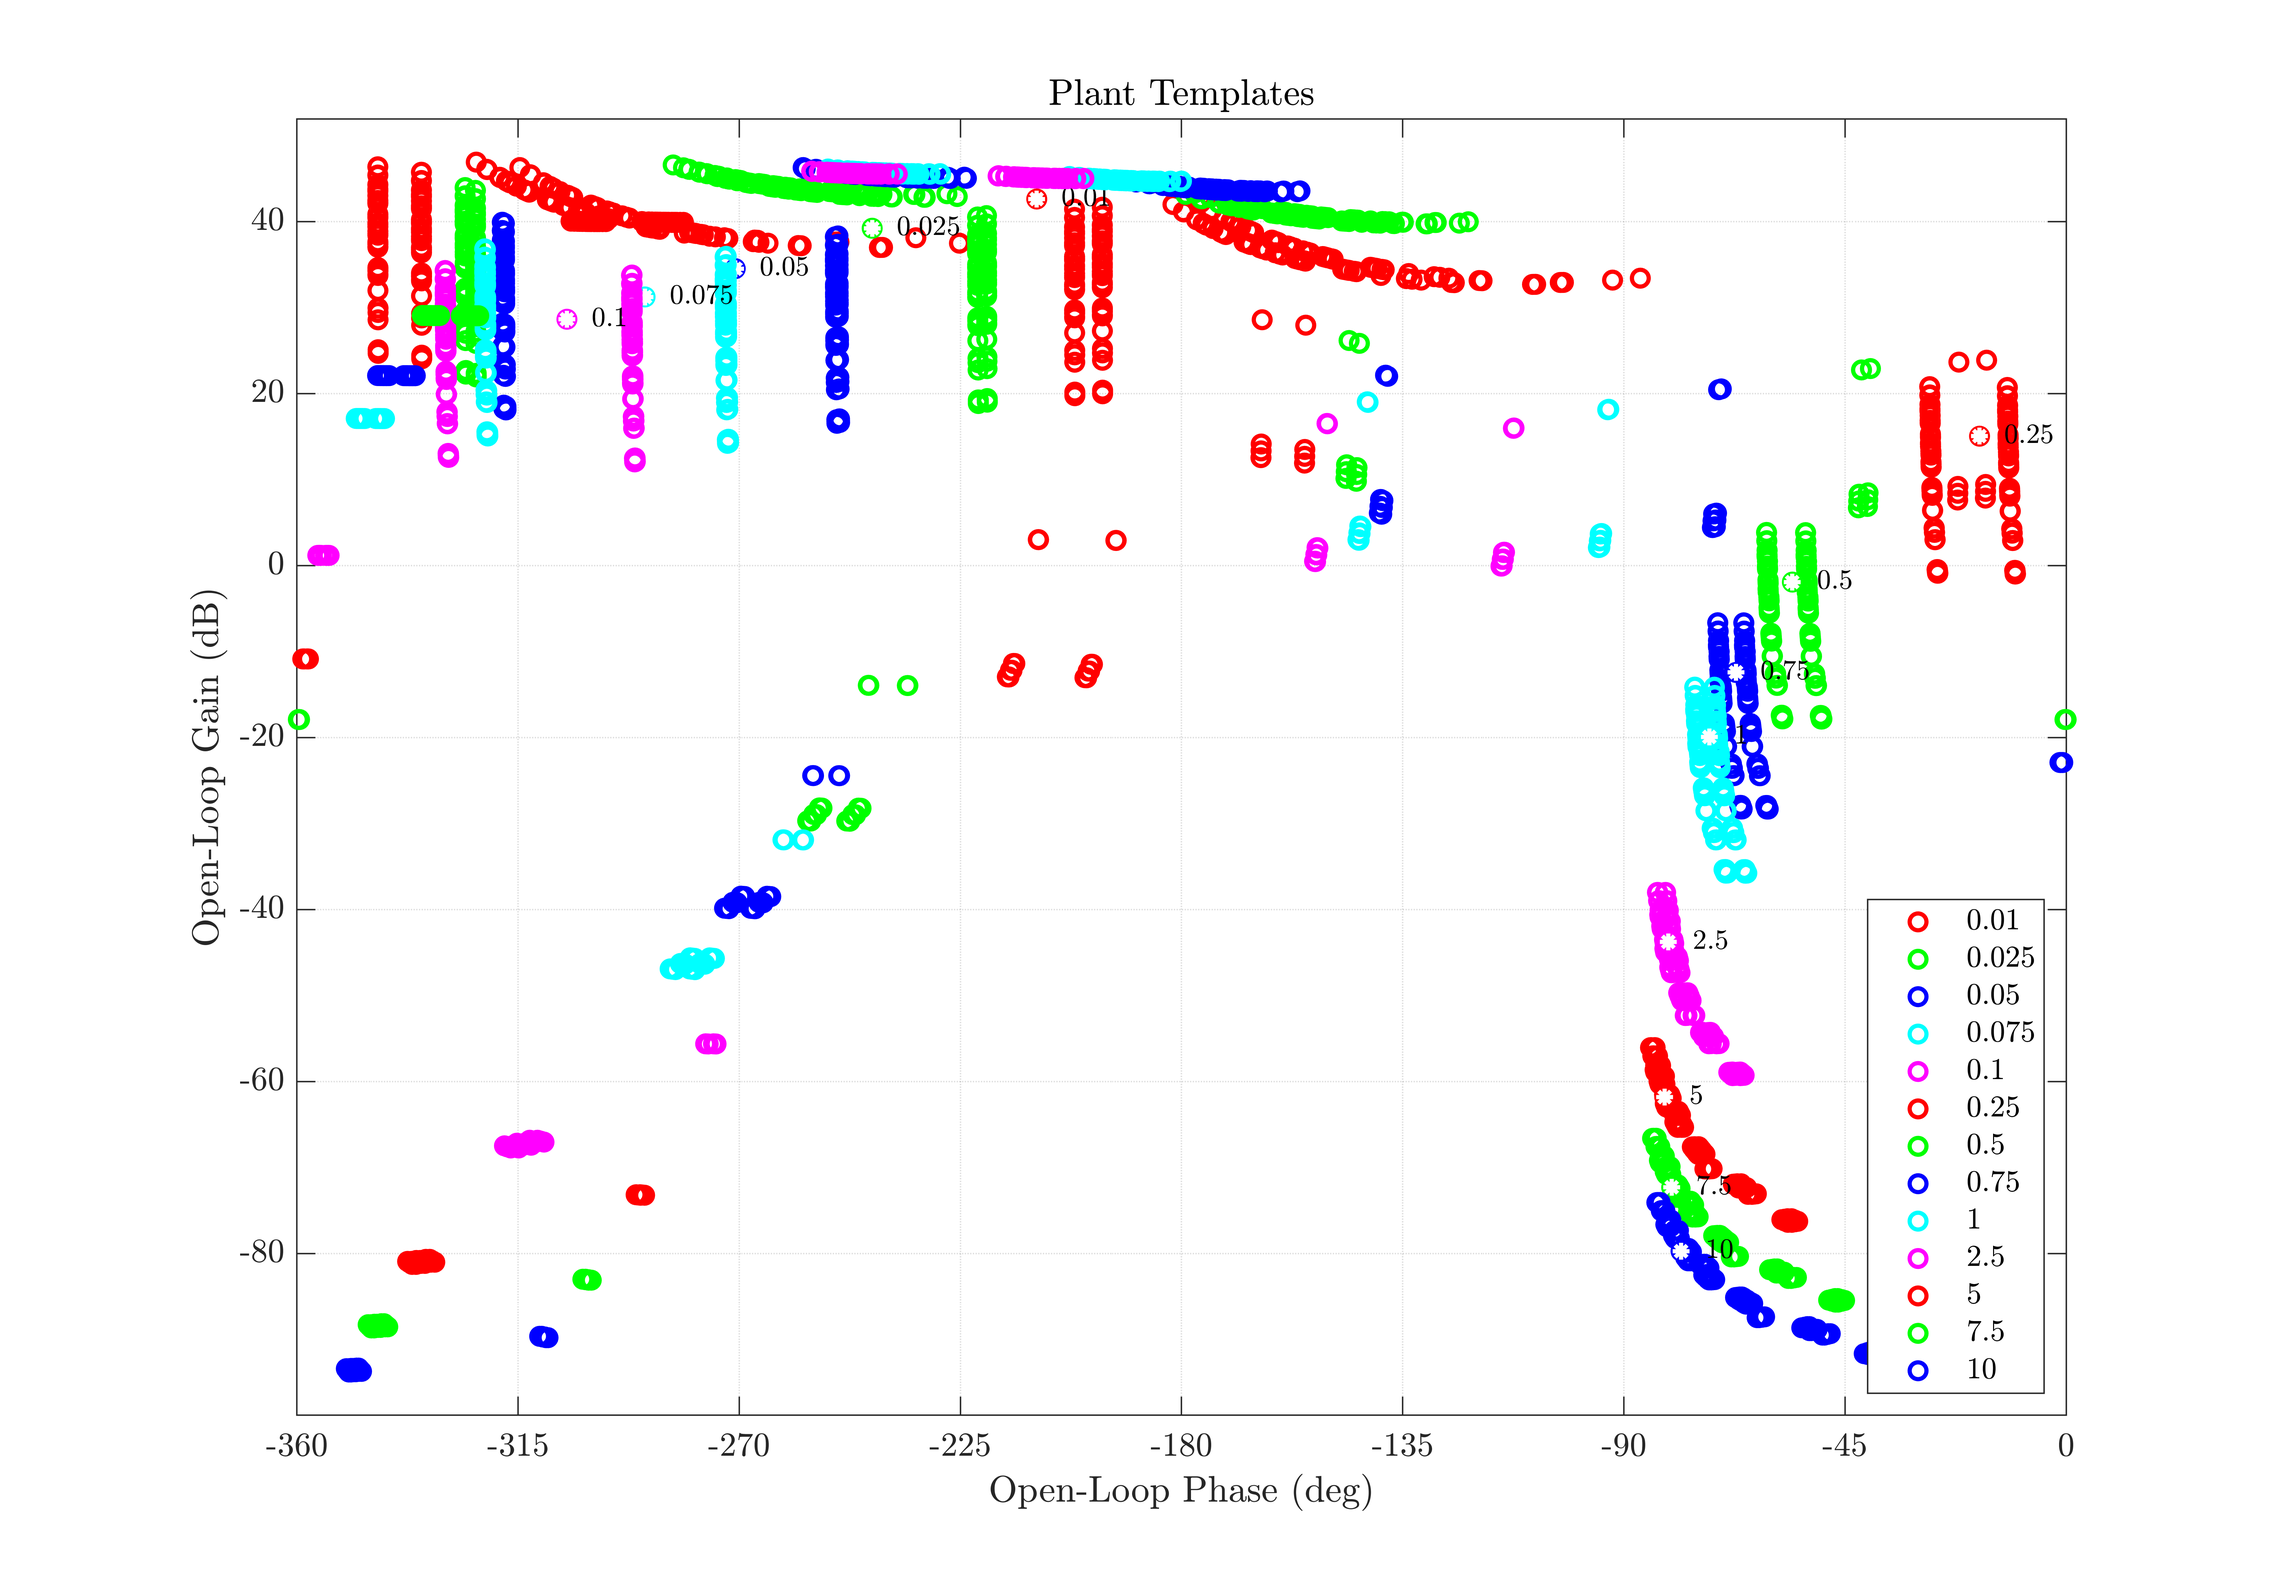
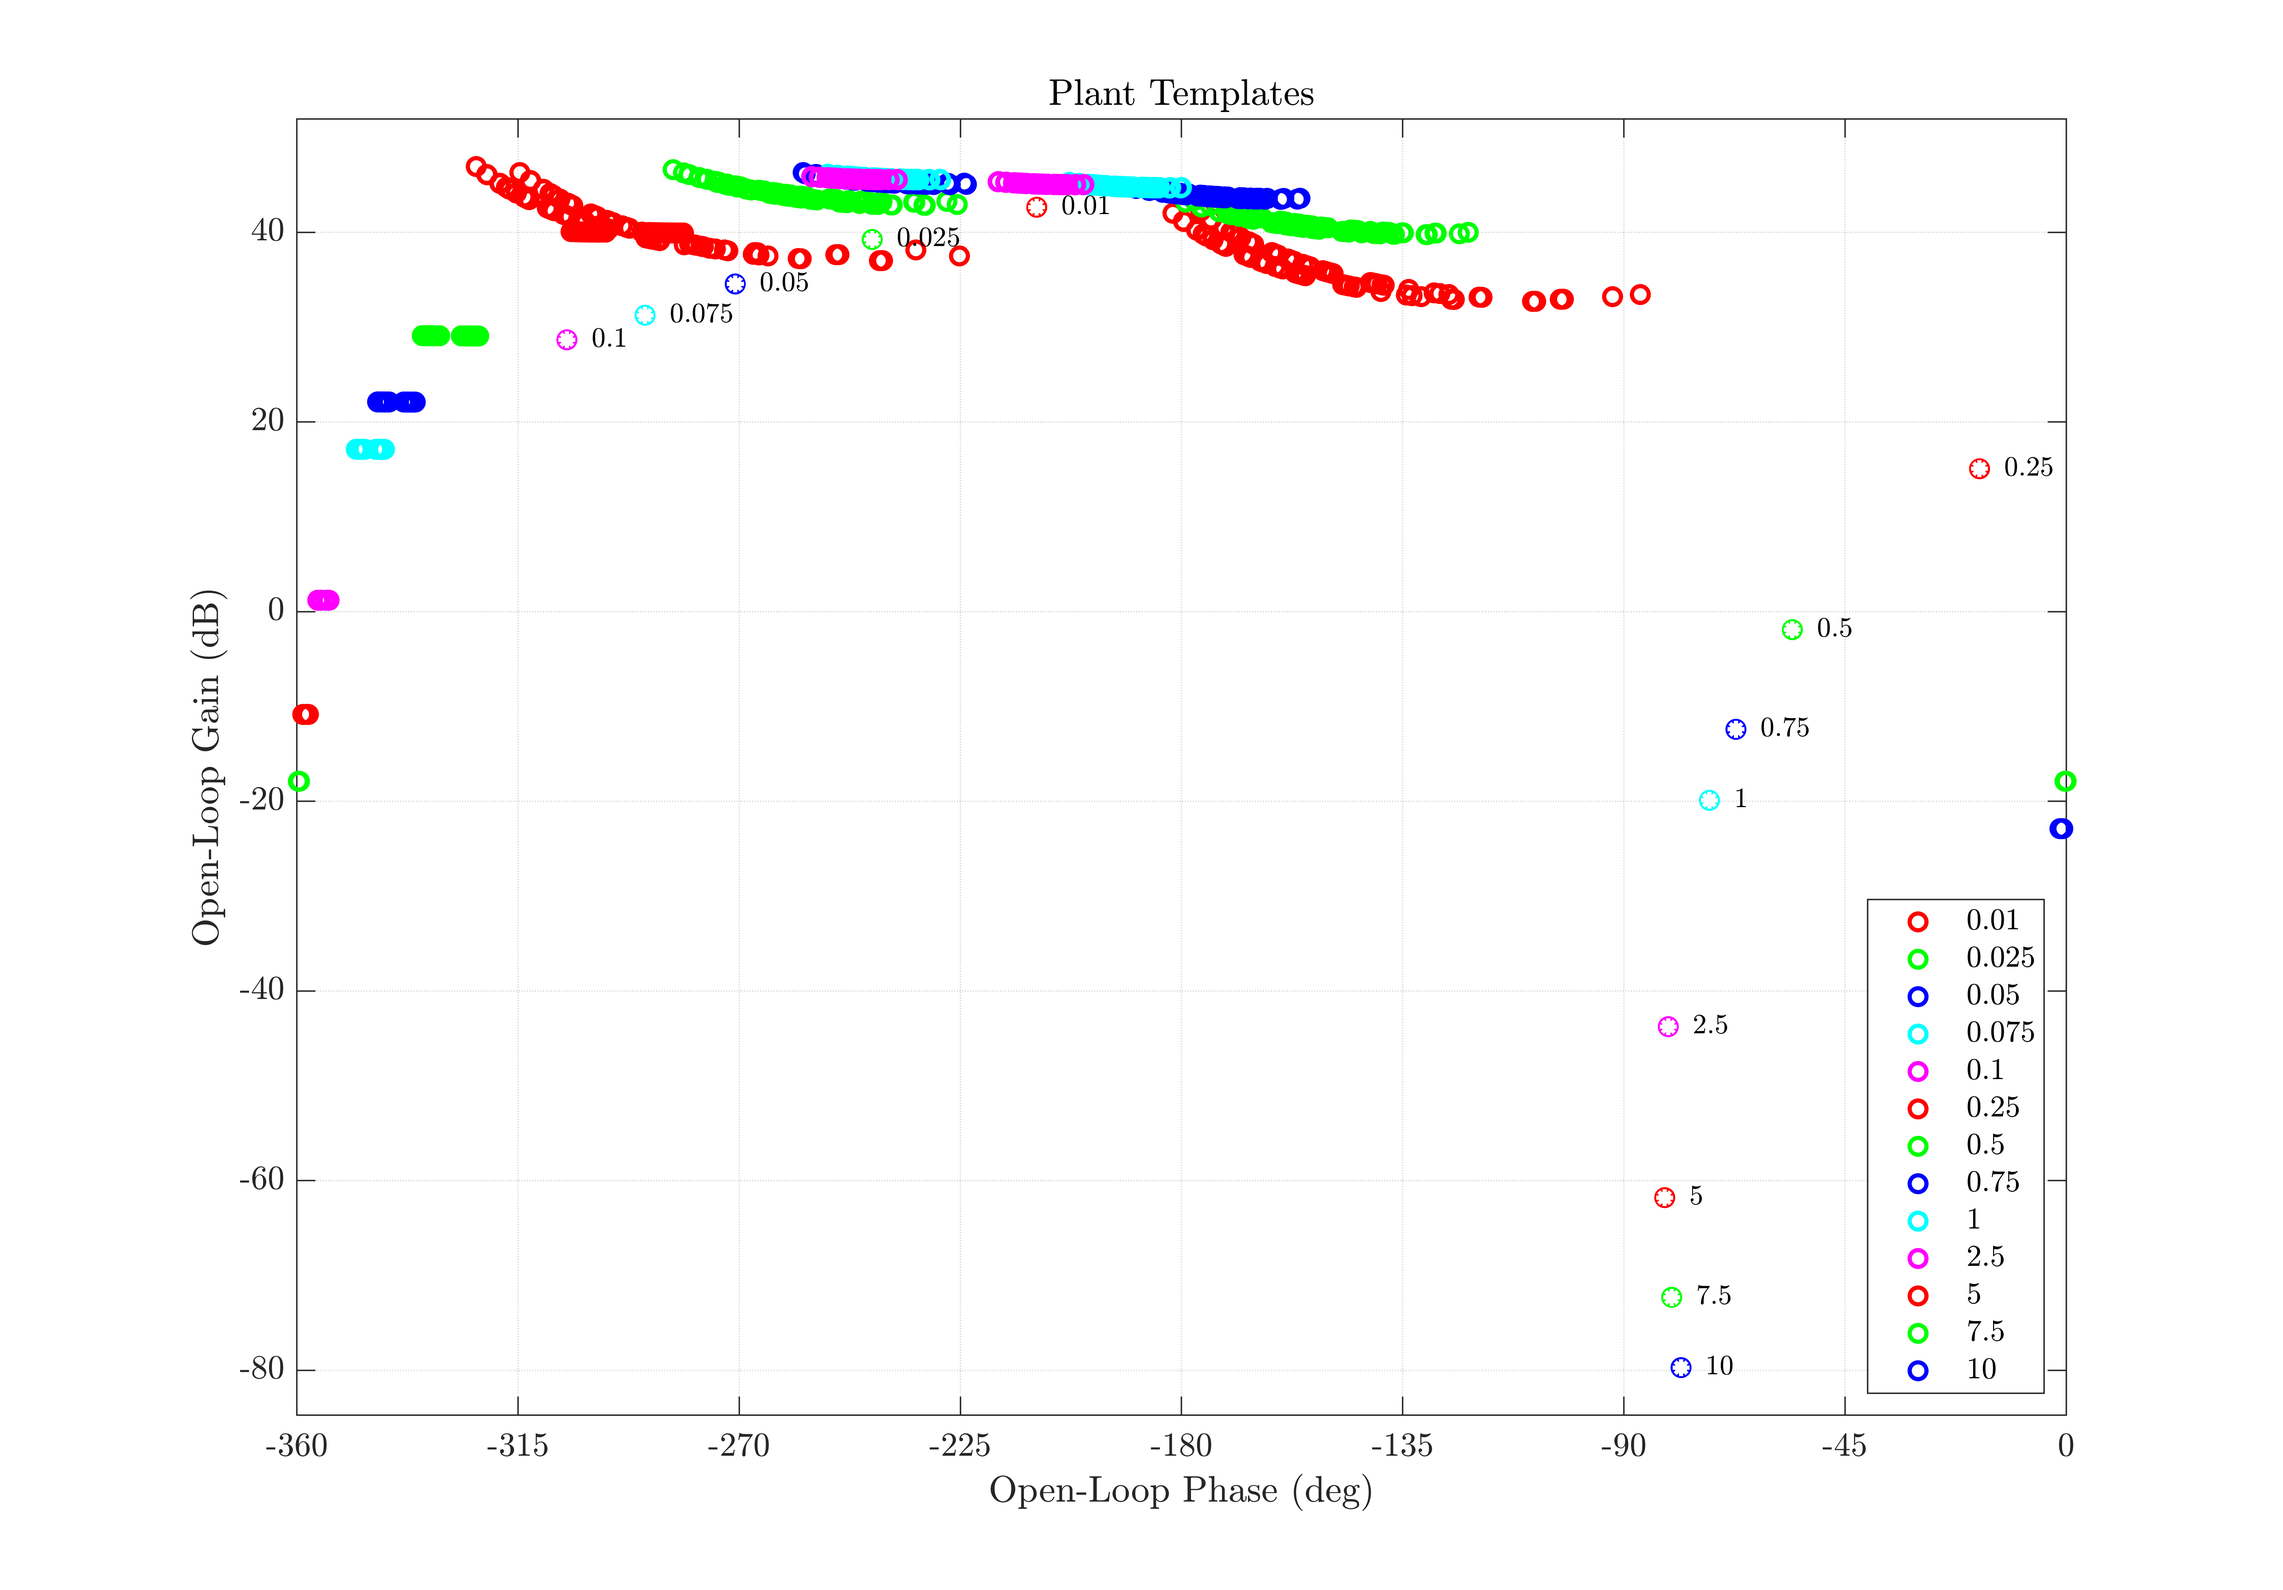
Remove unnecessary grid points and update template

diff --git a/LinearTurbine/SISO/SISO_R3_embedded_GenTrq_correctActDyn.m b/LinearTurbine/SISO/SISO_R3_embedded_GenTrq_correctActDyn.m
@@ -9,6 +9,9 @@
 %   Aug. 20th, 2023
 %       - Initial script
 %
+%   Sep.  5th, 2023
+%       - Correct actuator dynamics
+%
 
 %% Setup environment
 clear all; close all; clc;
@@ -34,7 +37,7 @@ PLOT = true;                                %#ok<NASGU> If true, plot figures!
 
 % --- Enable/disable printing figures
 PRNT = true;                                %#ok<NASGU>
-% PRNT = false;                               % COMMENT OUT TO PRINT FIGURES
+PRNT = false;                               % COMMENT OUT TO PRINT FIGURES
 
 % --- [INFO] Strings
 ACK = 'COMPLETED\n\n';
@@ -119,13 +122,13 @@ P_manual = C*(s*I - A)^-1*B + D;
 min_A2_1  = -6.09235e-06;   max_A2_1  = 4.09794e-05 ;   grid_A2_1  = 2;
 min_A2_2  = -0.0446502  ;   max_A2_2  = 0.0248350   ;   grid_A2_2  = 2;
 min_A2_3  = 0.0638464   ;   max_A2_3  = 0.0844336   ;   grid_A2_3  = 2;
-min_A2_4  = -3.65255e-04;   max_A2_4  = -3.17614e-04;   grid_A2_4  = 2;
+min_A2_4  = -3.65255e-04;   max_A2_4  = -3.17614e-04;   grid_A2_4  = 1;     % Small change, can skip gridding
 min_A2_6  = -3.454650   ;   max_A2_6  = -1.951820   ;   grid_A2_6  = 2;
 min_A2_7  = 0.06515760  ;   max_A2_7  = 0.0861676   ;   grid_A2_7  = 2;
-min_A2_8  = -3.65258e-04;   max_A2_8  = -3.17617e-04;   grid_A2_8  = 2;
+min_A2_8  = -3.65258e-04;   max_A2_8  = -3.17617e-04;   grid_A2_8  = 1;     % Small change, can skip gridding
 min_A2_10 = -3.710480   ;   max_A2_10 = -2.16005    ;   grid_A2_10 = 2;
 min_A2_11 = 0.06633160  ;   max_A2_11 = 0.08772030  ;   grid_A2_11 = 2;
-min_A2_12 = -3.65265e-04;   max_A2_12 = -3.176180-04;   grid_A2_12 = 2;
+min_A2_12 = -3.65265e-04;   max_A2_12 = -3.176180-04;   grid_A2_12 = 1;     % Small change, can skip gridding
 min_A2_14 = -3.872610   ;   max_A2_14 = -2.443750   ;   grid_A2_14 = 2;
 min_A2_15 = 0.003668010 ;   max_A2_15 = 0.006350780 ;   grid_A2_15 = 2;
 
@@ -165,16 +168,16 @@ P12 = tf( zeros(1,1,n_Plants) );                        % Pre-allocate memory
 % [INFO] ...
 fprintf( 'Step 1:' );
 fprintf( '\tComputing QFT templates using %3i plants...', n_Plants );
-
+tic;
 NDX = 1;                                            % Plant counter
-for var1 = 1:grid_A2_1                              % Loop over w
-    A2_1 = A2_1_g( var1 );                          % ....
+for var1 = 1:grid_A2_1          % Loop over w
+    A2_1 = A2_1_g( var1 );      % ....
     
-    for var2 = 1:grid_A2_2                          % Loop over w
-        A2_2 = A2_2_g( var2 );                      % ....
+    for var2 = 1:grid_A2_2          % Loop over w
+        A2_2 = A2_2_g( var2 );      % ....
         
-        for var3 = 1:grid_A2_3                      % Loop over w
-            A2_3 = A2_3_g( var3 );                  % ....
+        for var3 = 1:grid_A2_3          % Loop over w
+            A2_3 = A2_3_g( var3 );      % ....
             
             for var4 = 1:grid_A2_4          % Loop over w
                 A2_4 = A2_4_g( var4 );      % ....
@@ -241,7 +244,7 @@ for var1 = 1:grid_A2_1                              % Loop over w
         end
     end
 end 
-
+toc;
 % [INFO] ...
 fprintf( ACK );
 
@@ -263,8 +266,8 @@ P11( 1, 1, end+1 ) = P0_11;
 % --- Cleanup plants transfer function by removing values below 1e-16
 for ii = 1:length( P11 )
     [n, d] = tfdata( minreal(P11( 1, 1, ii ), 0.01) );
-    n = cellfun(@(x) {x.*(abs(x) > 1e-16)}, n);
-    d = cellfun(@(x) {x.*(abs(x) > 1e-16)}, d);
+    n = cellfun(@(x) {x.*(abs(x) > 1e-12)}, n);
+    d = cellfun(@(x) {x.*(abs(x) > 1e-12)}, d);
     P11( 1, 1, ii ) = tf(n, d);
 end
 
@@ -327,6 +330,12 @@ if( PLOT )
     
     % --- Beautify plot
     make_nice_plot();
+    dst  = fullfile( './figs/', mfilename );
+    name = fullfile( dst, 'template' );
+    if( PRNT )                                      % If flag is set
+        if( ~isfolder( dst ) ); mkdir( dst ); end   % Check if dir exists
+        print( gcf, '-dpng', name, '-r600'	)	    %   Print .png  file
+    end
 end
 
 % [INFO] ...
